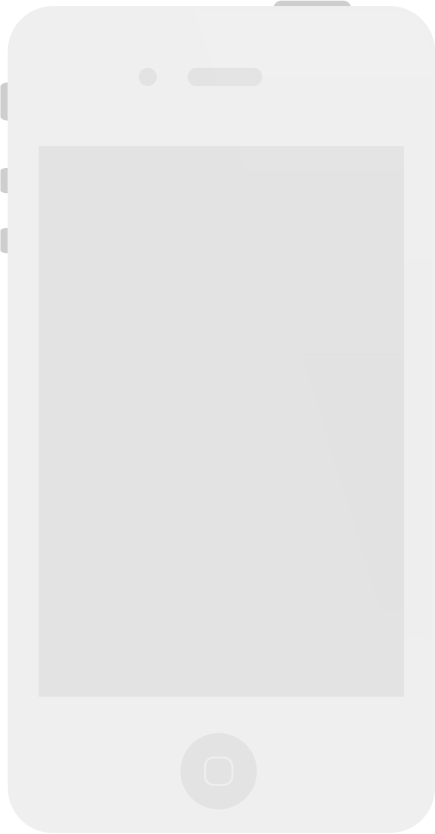
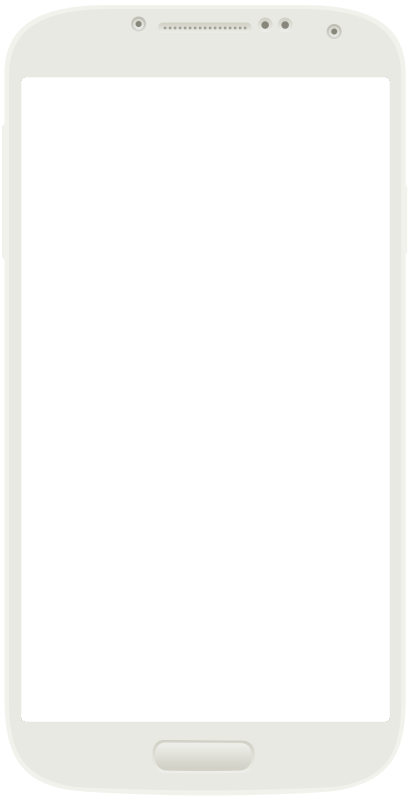
change ui to Samsung Galaxy S4

diff --git a/index.html b/index.html
@@ -4,7 +4,7 @@
     <title>Lungo - Android</title>
     <style>
       body { margin: 0; padding: 0; background: #c1e6ee; }
-      iframe { border: 0px; margin-top: 20px; margin-left: 33px; margin-top: 128px; }
+      iframe { border: 0px; margin-left: 19px; margin-top: 72px; }
       #container { width: 380px; margin: auto; padding-top: 40px; margin-bottom: 130px; padding-left: 40px; }
       .frame { width: 379px; position: absolute; z-index: -1; }
     </style>
@@ -12,7 +12,7 @@
   <body>
     <div id="container">
       <img class="frame" src="static/images/iphone-flat-ui.png" />
-      <iframe src="app.html" width="320" height="480"></iframe>
+      <iframe src="app.html" width="343" height="600"></iframe>
     </div>
   </body>
 </html>
